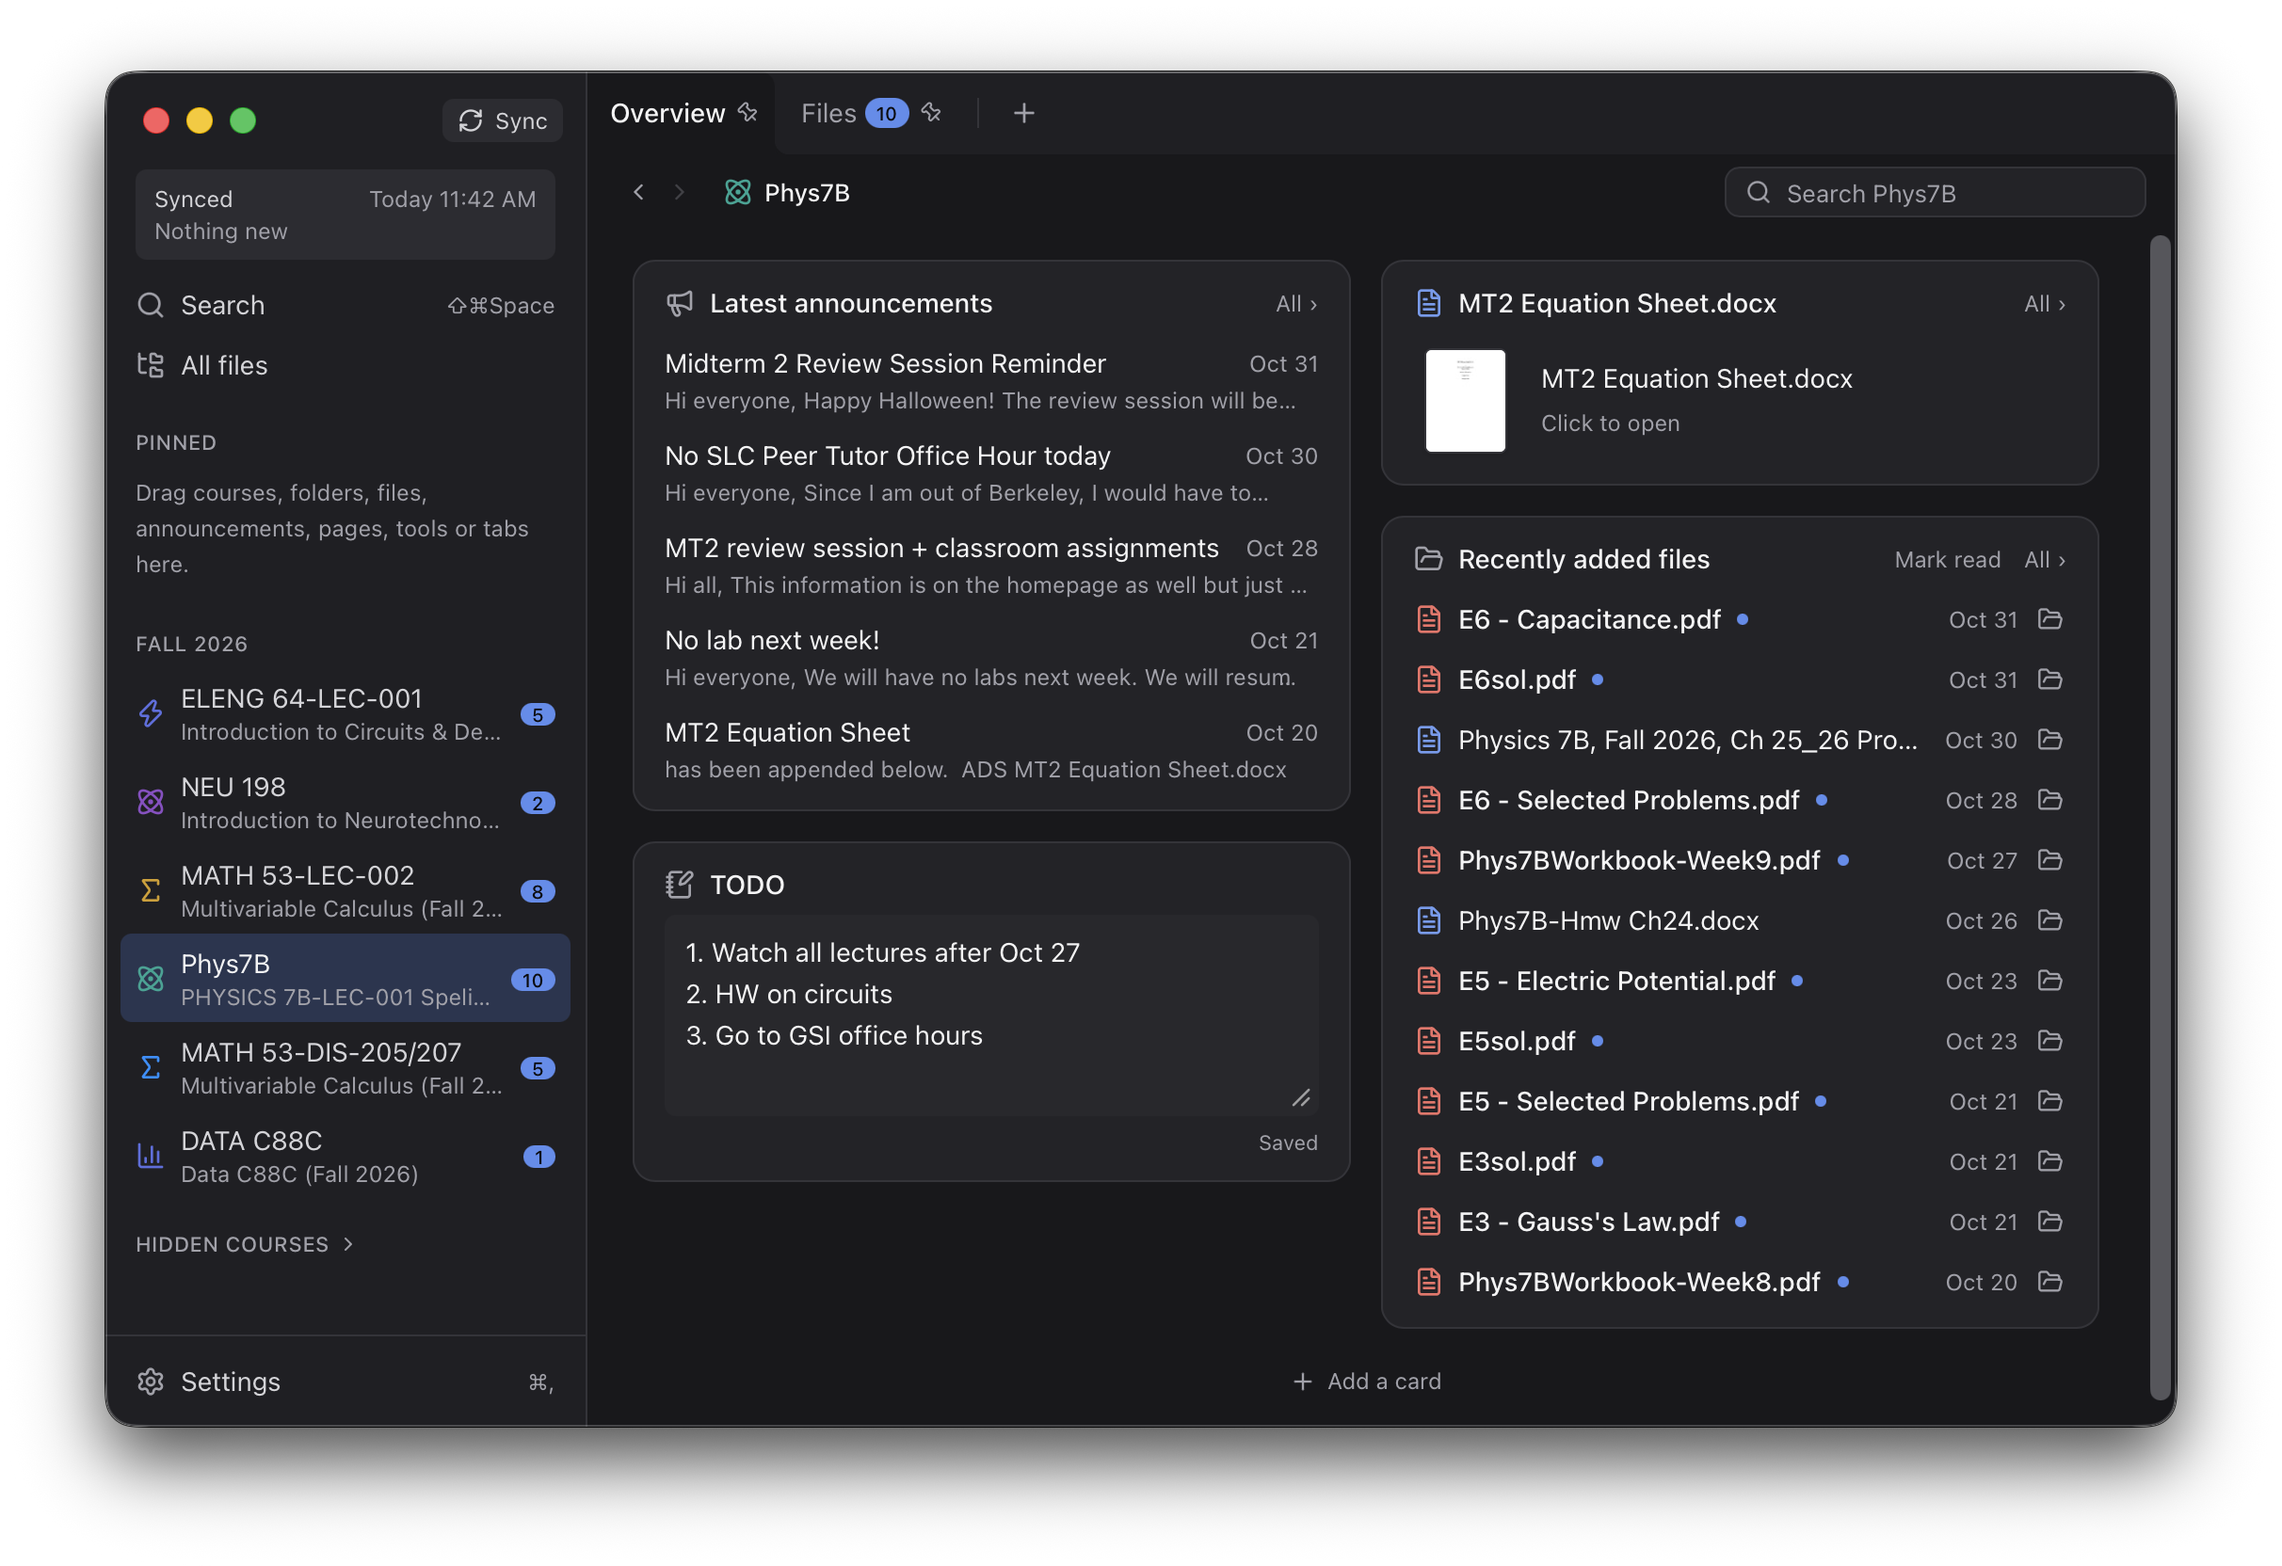
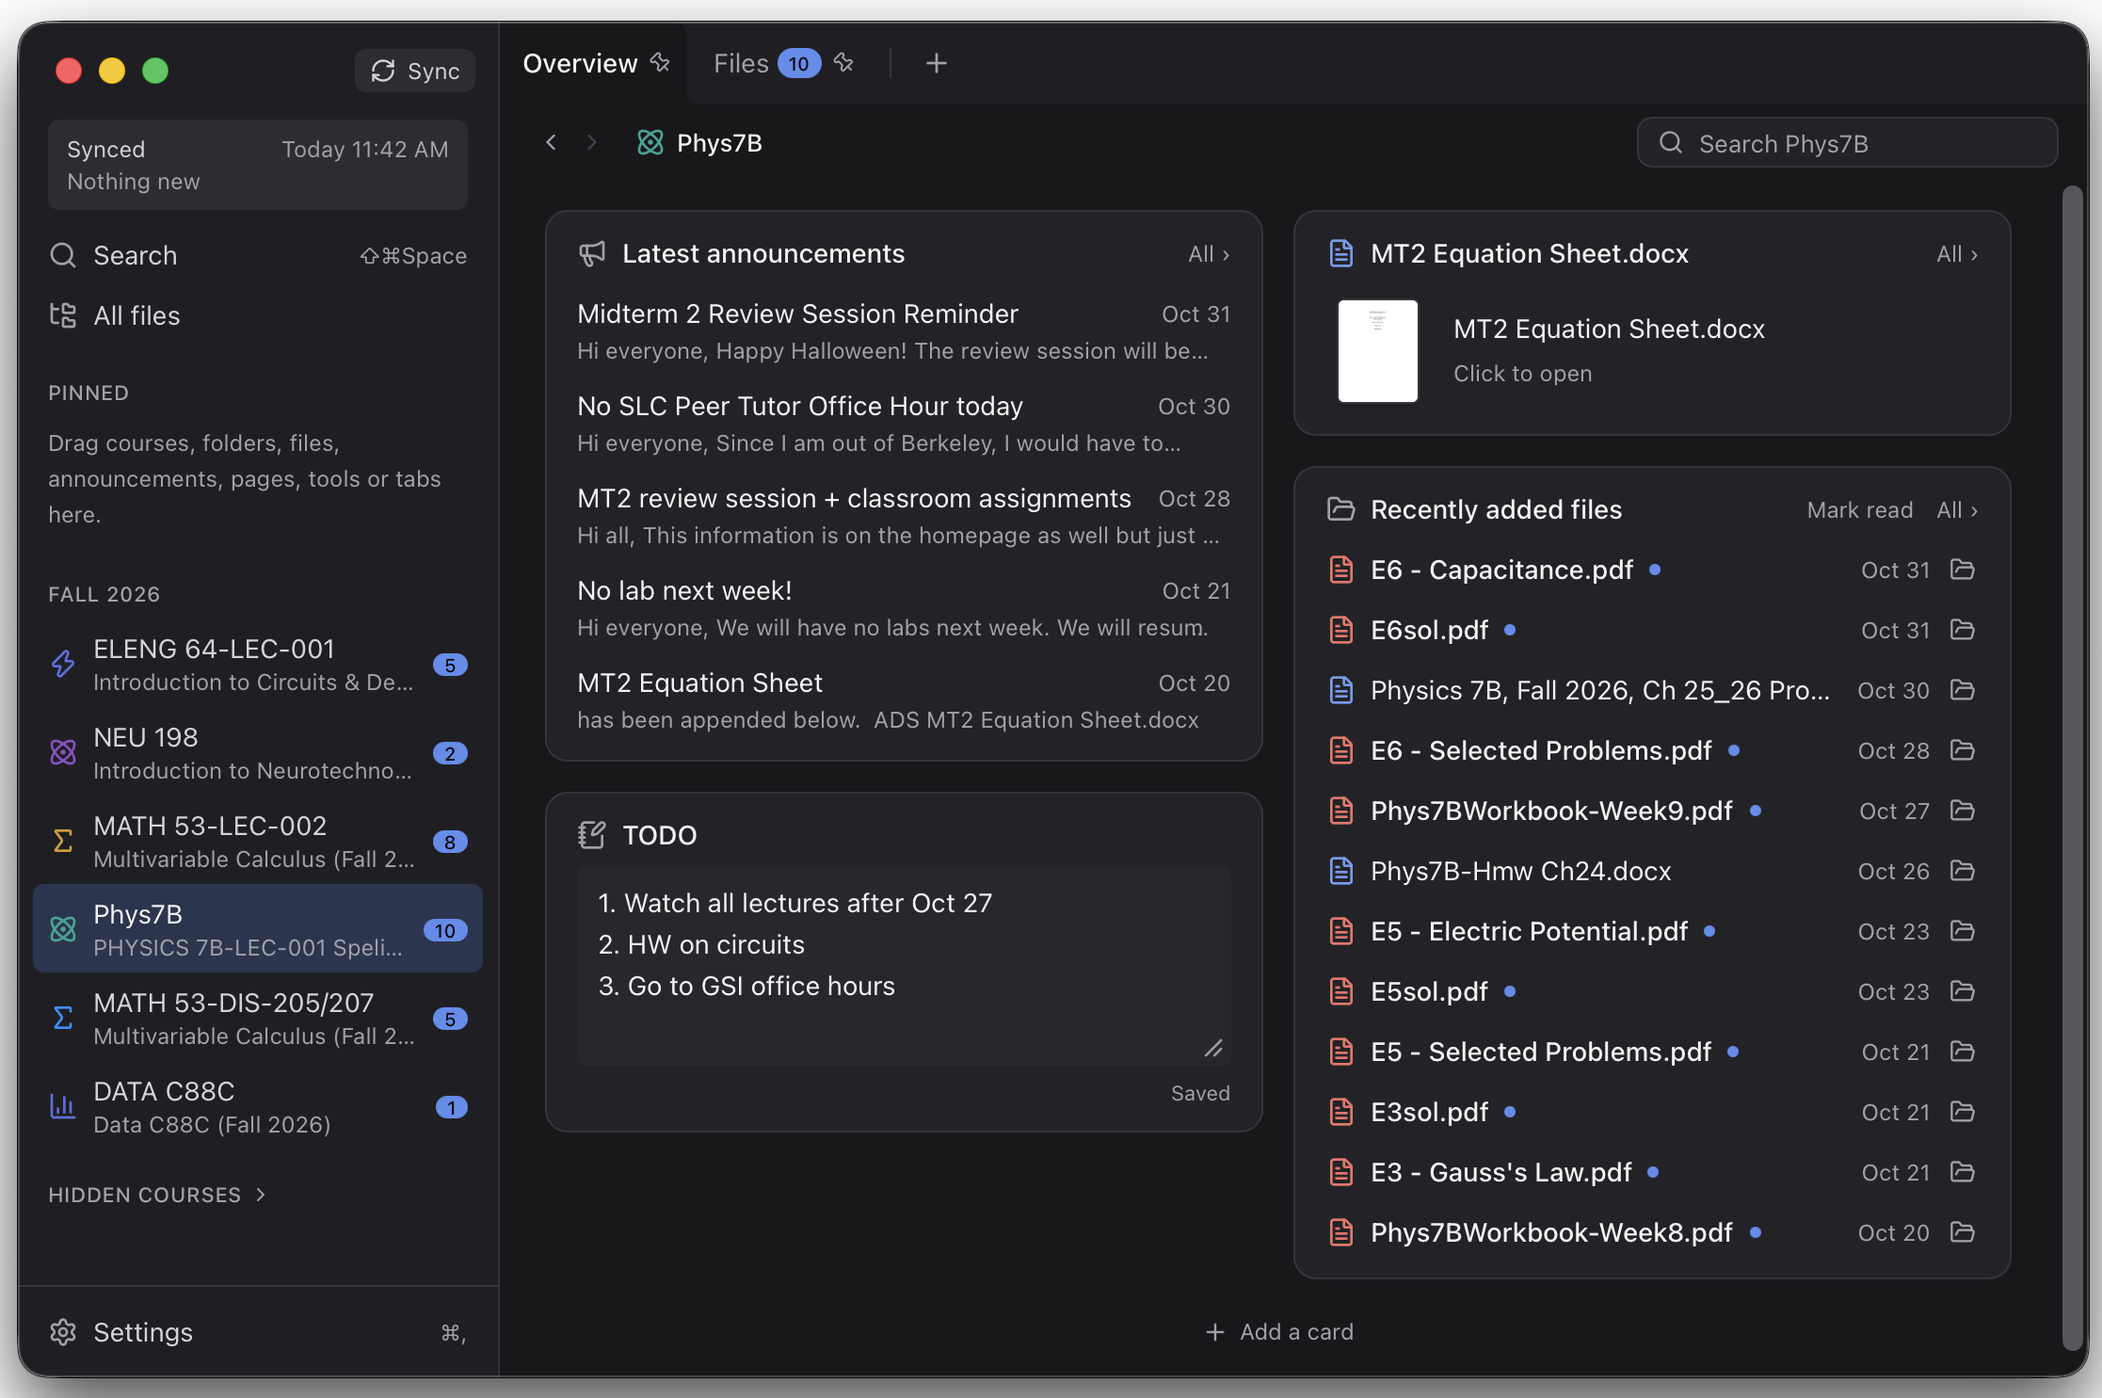
modified readme to include more pictures

diff --git a/README.md b/README.md
@@ -1,167 +1,68 @@
 # Canvas Sync
 
-**All your Canvas courses in one app on your Mac: files, announcements, assignments, grades
-and Ed posts, searchable in a second, without clicking through the Canvas website.**
+**All your Canvas courses in one Desktop app.**
 
 ![Canvas Sync: a course's overview, with the latest announcements, new files and notes](images/app.png)
 
 ## What it does for you
 
-- **Every course file, on your computer.** Lecture slides, problem sets, solutions and past
-  exams download into a normal folder, sorted by course, and stay up to date on their own.
-  Files buried in modules or linked from announcements are found too. They open offline, in
-  Finder, Spotlight or any app, and your own notes on them are never overwritten.
-- **One place per course.** Announcements, assignments and due dates, pages, modules, grades,
-  the syllabus and the course's tools (Gradescope, Ed...) each get a tab. Each course opens on
-  an overview: upcoming deadlines, the latest announcements, new files, your grades, and notes
-  you type yourself.
-- **Make every course look alike.** Every instructor organizes Canvas differently; you don't
-  have to follow them. Drag anything into a tab, a card on the overview or a link; rename or
-  hide what you don't need. Set up the layout once for all your courses, or per course.
-- **Find anything as you type.** Press ⌘⇧Space anywhere on your Mac and type what you'd say:
-  `ee64 hw 7 solutions`, `64 slides this week`, `cs70 due this week not submitted`. It searches
-  names and the text inside PDFs, slides, announcements and pages, knows that `hw3` means
-  "Homework 3" or "Problem Set 3", and forgives typos ("midtrem").
-- **See what's new.** New announcements, assignments, files and posts get a blue dot until you
-  open them, and the sidebar counts them per course.
-- **Pin what you use most.** Drag anything (a course, a folder, a file, an assignment, a
-  website) to *Pinned* at the top of the sidebar.
-- **Ed Discussion, too.** Connect Ed and each course gets a Discussion tab, with pinned and
-  staff posts saved for reading offline. Ed announcements show up with Canvas's.
-- **Ask an AI about your courses.** With one click in Settings, Claude or Codex can read your
-  synced courses: "is my midterm cumulative?", "what did I miss since the midterm?"
+### **Instant preview and local edits.**
+ ![Preview on Mac](images/preview.gif)
 
-Search, from anywhere:
+*(20x faster than Canvas on your school's crappy eduroam)*
 
-![Searching "ee64 hw 7 solutions"](images/search-hw.png)
-![Searching "64 slides this week"](images/search-this-week.png)
 
-Asking Claude, which looks it up in your courses:
+### **Powerful searching.** 
+![Searching "7b hw on circuit"](images/search-hw-text.png)
 
-![Claude answering "is my upcoming physics 7b midterm cumulative"](images/ai-midterm.png)
+*Who would've guessed that this week's homework is in the "01 Course Administration" module?*
 
-Canvas Sync only reads. It never submits, posts or changes anything on Canvas or Ed, and never
-marks anything as read there. Your login stays on your computer, in the Mac's keychain. The app
-is in English or Chinese.
 
-## Installing it (Mac)
+### **Pin what you use most.** 
+!["Dragging a hw file to pinned"](images/pin.gif)
 
-1. **Download** `Canvas Sync.dmg` from this project's
-   [Releases page](https://github.com/bzemerald/canvas_cli/releases), open it and drag
-   **Canvas Sync** into **Applications**. (No download there yet? It can be built from this
-   code: see [The desktop app](#the-desktop-app) below.)
-2. **Open it the first time with right-click → Open**, then **Open** again. The app isn't
-   signed by Apple, so a plain double-click the first time only says it can't be checked. After
-   that, it opens normally.
+*Drag anything (homework folder,  equation sheet, an assignment, an announcement) to *Pinned* at the top of the sidebar.*
+
+
+### **See what's new.** 
+![Canvas Sync: a course's overview, with the latest announcements, new files and notes](images/app.png)
+
+*Instead of the default canvas home page (which your instructor creates at the beginning of the semester and forgets to update ever since), you have a customizable course dashboard for all the new information that you care about.*
+
+
+### **Connect to a desktop LLM app.** 
+   ![Claude answering "is my upcoming physics 7b midterm cumulative"](images/ai-midterm.png)
+*With one click in Settings, Claude or ChatGPT can read your synced courses and answer your questions.*
+
+
+## Installation and set up
+
+1. **Download** from this project's
+   [Releases page](https://github.com/bzemerald/canvas_cli/releases).
+2. **On Macs**, because I can't afford Apple's $99/yr developer account, it will say that the app is damaged and you should move it to trash. Ignore it by clicking "cancel," and go to your Mac's System Setttings → Privacy & Security, scroll down to the security section at the bottom, where you will see a notice that the app was blocked, then click "Open Anyway."
 3. **Sign in to Canvas.** The app asks for three things:
    - **Your school's Canvas address**, the one in your browser when you use Canvas
      (e.g. `bcourses.berkeley.edu`).
    - **An access token**, which lets the app read Canvas as you. In Canvas, click **Account →
      Settings**, scroll to *Approved Integrations*, click **+ New Access Token**, give it any
-     name, and copy the long code it shows (it's only shown once) into the app.
+     name, set its expiration date to as long as possible, 
+and copy the long code it shows (it's only shown once) into the app.
    - **A folder** for your course files, e.g. a new folder called `Canvas` in your home folder.
 4. If your Mac asks whether Canvas Sync may use your keychain, click **Always Allow**. That's
    where it keeps the token.
+5. *(Optional)* EdStem: In Settings, connect to EdStem with a token made on Ed's *Settings → API Tokens* page.
+6. *(Optional)* AI assistants: Settings → AI assistants → Link To… Allows your courses to be seen by Claude Desktop or ChatGPT Desktop(Work/Codex).
 
-The first sync downloads all your courses' files, which can take a few minutes. After that it
-syncs when the app opens and every hour (both can be changed in Settings).
+The first sync downloads all your courses' files, which can take a few minutes. After that it syncs when the app opens and every hour (both can be changed in Settings).
 
-**Optional:**
-
-- **Ed:** in Settings, connect Ed with a token made on Ed's *Settings → API Tokens* page.
-- **Search by meaning** (finds "the announcement about extensions" from "can I get an
-  extension"): turn it on in Settings; it downloads a small model (~125 MB).
-- **AI assistants:** Settings → AI assistants → Add To… adds your courses to Claude or Codex.
-
-If Canvas ever says your token expired, make a new one the same way and paste it in Settings.
-
----
-
-*The rest of this page is for developers: building the app, the `canvas` command line tool,
-and how it works.*
-
-## What's here
-
-- **`canvas`**, a command-line tool, mirrors Canvas course files into a normal folder that
-  Finder, Spotlight and your own apps can use. `canvas pull` works like `git pull`: it fetches
-  what changed, never overwrites your edits, and keeps the original of every file so you can
-  restore it.
-- **Canvas Sync**, a desktop app built on it, is a hub for each course: files, announcements,
-  assignments, pages, modules, tools, grades and the course's posts on Ed, in one window, so
-  you rarely need the Canvas website or Finder. Every course can be arranged to look alike, however
-  its instructor organized it.
-
-
-## The desktop app
-
-```sh
-python3 -m venv .venv && .venv/bin/pip install -e '.[dev]'
-cd app && npm install        # and Rust, from https://rustup.rs
-npm run tauri dev            # the app starts .venv/bin/canvas serve itself
-```
-
-The first launch asks for your Canvas address, an access token and the sync folder. The app
-then syncs on launch and every hour (you can change both in Settings). Its interface is in
-Chinese or English. See [app/README.md](app/README.md) for how the shell and backend fit together.
-
-To build the app as a standalone `Canvas Sync.app` (and a `.dmg`), in `app/`:
-
-```sh
-npm run bundle    # -> src-tauri/target/release/bundle/macos/, and dmg/
-```
-
-This packs the Python backend with PyInstaller into the app (`npm run build:backend` does that
-part alone), so the app doesn't need this repo or its `.venv`. `npm run tauri build` makes
-one without it, which starts the repo's `.venv/bin/canvas`. It isn't signed with a developer
-ID: on another Mac, open it the first time with right-click → Open. The packed backend is a new
-program to the Keychain, so macOS may ask before it reads the Canvas token (Always Allow), and
-again after a rebuild.
-
-- **A course's page** has tabs (overview, modules, announcements, discussion, assignments,
-  grades, files, syllabus, pages) and an overview of cards (upcoming deadlines, latest
-  announcements, current modules, new files, grades, tools and links, notes you type).
-  Anything of the course can be put anywhere on its page by dragging it, a page, a module, a
-  folder, a file, a search, as a tab, a card or a link. Most things can be renamed or hidden
-  there. Arrange the tabs and overview once as the default for every course, or per course.
-- **Pinned**, at the top of the sidebar, holds anything from any course: a course, a folder,
-  a file, a document, a tab, a tool, a web link, a smart folder (a search, pinned).
-- **Files** shows the course's folder with what's new to you, what you changed or deleted
-  (with *Show modifications*), and what isn't synced. You can restore originals, stop or resume
-  syncing, rename folders, and delete to the Trash, all from right-click menus.
-- **Search** (⌘⇧Space anywhere, or the search box) finds things by name as you type, and by
-  the text inside them. It reads what a query says: a course, a kind, a time, a status, numbered
-  things: `cs70 due this week not submitted` is CS 70's assignments due this week that aren't handed in; `hw3` also
-  finds "Homework 3" and "Problem Set 3"; a misspelled word ("midtrem") is taken for the one
-  meant.
-- **New** things (announcements, assignments, pages, files, Ed posts) get a blue dot until you
-  open them, and the sidebar counts them per course.
-
-## Ed
-
-Connect Ed (edstem.org) in Settings with a token made in Ed's own settings (API Tokens). The
-token is kept in the keychain. Each Ed course is matched to its Canvas course by course code and
-term, and you can change the match in Settings. On each sync:
-
-- Ed's announcements appear among the course's announcements, marked *Ed*. One posted on both
-  Canvas and Ed (same title, within two days) shows once.
-- The course gets a **Discussion** tab of its Ed posts (filter by pinned, staff, unread,
-  watched, category) and a card of what's pinned and what staff posted.
-- Replies to pinned, staff and megathread posts are downloaded for reading offline. Other posts'
-  replies are fetched when you open them.
-- Search finds pinned and staff posts by name, and every post by its text (staff answers
-  included). Students' questions come after other matches that fit as well.
-
-It's read-only: nothing is posted, and nothing is marked read on Ed. Ed has no documented
-API; this uses the one its website uses, so a change on Ed's side can break it (the app then
-says "Ed changed"). Ed is fetched by every sync, the app's and `canvas pull`'s (not when only
-some folders are pulled).
 
 ## The command line
+The project also includes `canvas`, a command line tool. 
 
 ```sh
 python3 -m venv .venv && .venv/bin/pip install -e '.[dev]'
-.venv/bin/canvas init        # Canvas URL, access token (stored in the keychain), sync folder
-.venv/bin/canvas courses     # which courses will sync; --sync ID / --skip ID to change
+.venv/bin/canvas init        
+.venv/bin/canvas courses     
 .venv/bin/canvas pull -n     # dry run
 .venv/bin/canvas pull
 ```
@@ -189,10 +90,6 @@ and notebooks, and every page, assignment, announcement and syllabus (and Ed pos
 - `mt1` finds "MT1.pdf", "Midterm 1 Solutions" and "midterm1.pdf" alike.
 - Results whose name or folder matches come first; files that only mention it inside follow.
 - `--open N` opens result N (the file, or the Canvas page).
-
-**By meaning** (off unless turned on in the app's Settings; then `canvas search` uses it too): "can I get an extension" finds
-the announcement about Flextensions. A small English model (~125 MB) is downloaded to the app's
-folder; English only, and Chinese queries are matched by their words.
 
 The index is `.canvas/index.db`, a cache: delete it and `canvas index` rebuilds it.
 
@@ -234,13 +131,34 @@ claude mcp add --scope user canvas-sync -- /path/to/canvas-sync/.venv/bin/canvas
 | `whats_new` | what you haven't opened, or everything since a time; and how the last sync went |
 | `list_files`, `local_changes` | folders, and what you changed on this computer |
 
+
+## Launching/building the desktop app from source
+
+```sh
+python3 -m venv .venv && .venv/bin/pip install -e '.[dev]'
+cd app && npm install        # and Rust, from https://rustup.rs
+npm run tauri dev            # the app starts .venv/bin/canvas serve itself
+```
+
+The first launch asks for your Canvas address, an access token and the sync folder. The app then syncs on launch and every hour (you can change both in Settings). See [app/README.md](app/README.md) for how the shell and backend fit together.
+
+To build the app as a standalone, in `app/`:
+
+```sh
+npm run bundle 
+```
+
+This packs the Python backend with PyInstaller into the app (`npm run build:backend` does that
+part alone), so the app doesn't need this repo or its `.venv`. `npm run tauri build` makes
+one without it, which starts the repo's `.venv/bin/canvas`. It isn't signed with a developer
+ID: on another Mac, open it the first time with right-click → Open. The packed backend is a new
+program to the Keychain, so macOS may ask before it reads the Canvas token (Always Allow), and
+again after a rebuild.
+
 ## What ends up on disk
 
 ```
 ~/Canvas/
-  Fall 2026/MATH 221/
-    Modules/01 Week 1/lec1.pdf      ← the real file
-    Files/Lectures/lec1.pdf         ← symlink to it (same file, other view)
   .canvas/
     config.toml                     ← layout, sync policies, the app's arrangement; edit freely
     notes/                          ← notes typed on a course's overview in the app
@@ -252,9 +170,7 @@ claude mcp add --scope user canvas-sync -- /path/to/canvas-sync/.venv/bin/canvas
   app.toml                          ← the app's preferences, the default tabs and overview
 ```
 
-Files are found through the Files tab, modules, and links inside pages, assignments,
-announcements and the syllabus, so a hidden Files tab doesn't hide anything. Canvas and Ed
-tokens are in the keychain.
+Canvas and Ed tokens are in the keychain.
 
 In `.canvas/config.toml`, besides the sync settings:
 
